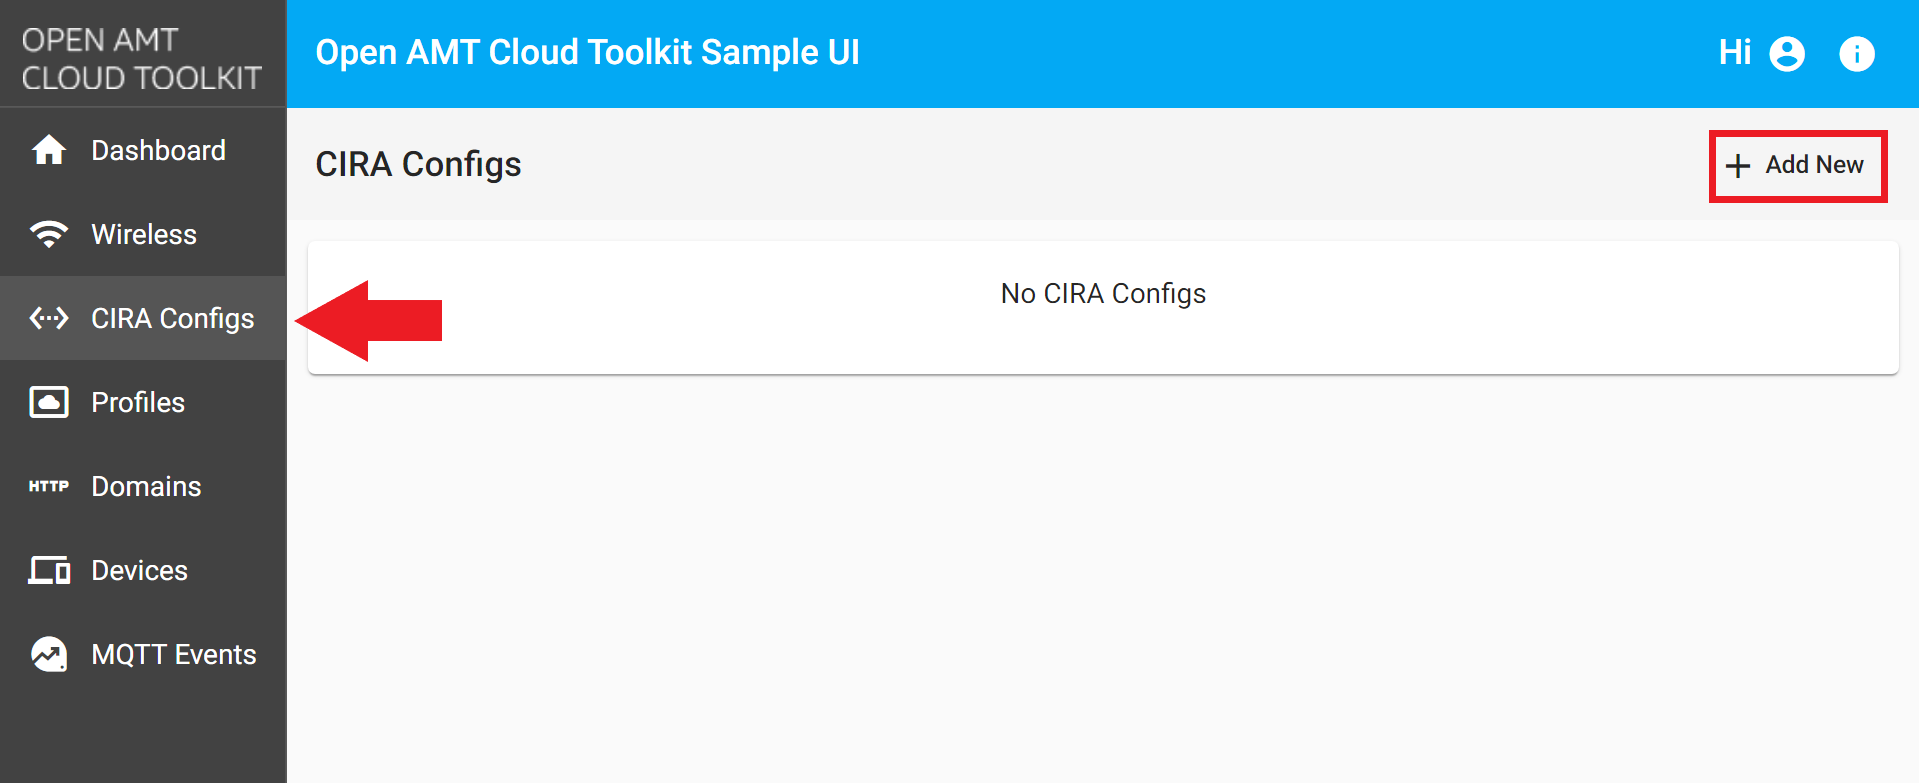
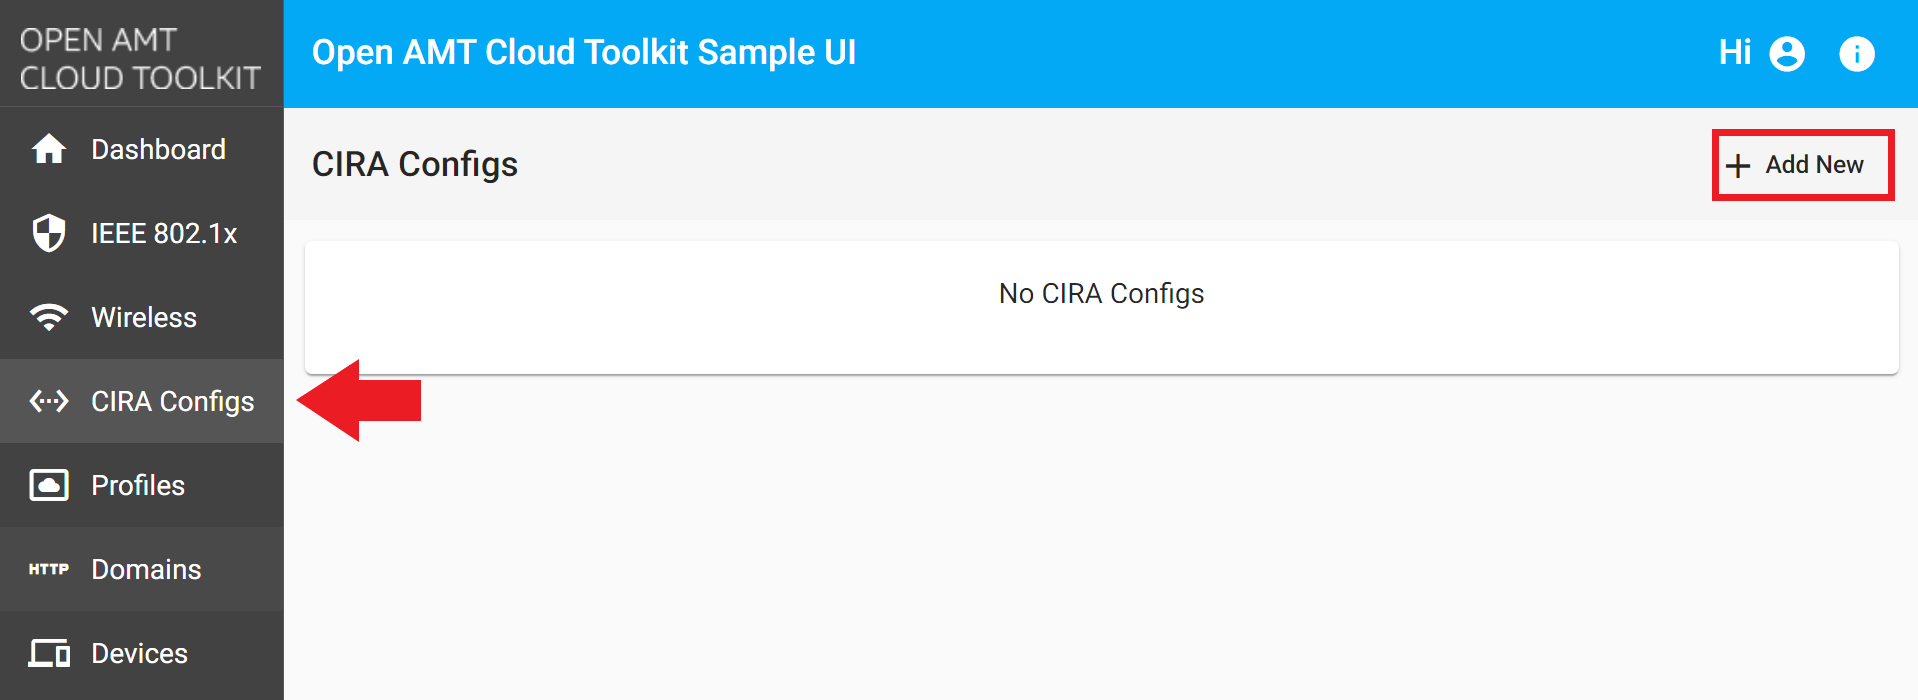
docs(reference): add 8021x wireless feature (#281)

diff --git a/docs/Reference/EA/ieee8021xconfig.md b/docs/Reference/EA/ieee8021xconfig.md
@@ -33,9 +33,11 @@ The following are requirements to configure and connect an AMT device within an 
      <figcaption>Figure 1: Create a new IEEE802.1x Config</figcaption>
      </figure>
 
-3. Specify a **Profile Name** of your choice.
+3. Select the Wired option.
 
-4. Select an **Authentication Protocol**.
+4. Specify a **Profile Name** of your choice.
+
+5. Select an **Authentication Protocol**.
 
     Four authentication protocols are supported for wired.
 
@@ -46,16 +48,16 @@ The following are requirements to configure and connect an AMT device within an 
     |EAP-FAST/GTC    | 5         | Indicates that the desired EAP type is the Flexible Authentication Extensible Authentication Protocol EAP type specified in [IETF RFC 4851](https://www.rfc-editor.org/rfc/rfc4851),     with Generic Token Card (GTC) as the inner authentication method.      |
     |EAP-FAST/TLS    | 10        | Indicates that the desired EAP type is the Flexible Authentication EAP type specified in [IETF RFC 4851](https://www.rfc-editor.org/rfc/rfc4851), with TLS as the inner authentication   method.      |
 
-5. Optionally, change the **PXE Timeout**.
+6. Optionally, change the **PXE Timeout**.
 
     PXE Timeout is the number of seconds in which the Intel(R) AMT will hold an authenticated 802.1X session. During the defined period, Intel(R) AMT manages the 802.1X negotiation while a PXE boot takes place. After the timeout, control of the negotiation passes to the host.
 
-6. Click **Save.**
+7. Click **Save.**
     
-    !!! example "Example IEEE802.1x Config"
+    !!! example "Example Wired IEEE802.1x Config"
         <figure class="figure-image">
-        <img src="..\..\..\assets\images\RPS_Create8021xConfig.png" alt="Figure 2: Example IEEE802.1x Config">
-        <figcaption>Figure 2: Example IEEE802.1x Config</figcaption>
+        <img src="..\..\..\assets\images\RPS_Create8021xConfig.png" alt="Figure 2: Example Wired IEEE802.1x Config">
+        <figcaption>Figure 2: Example Wired IEEE802.1x Config</figcaption>
         </figure>
 
 #### To link to an AMT Profile:
@@ -76,5 +78,53 @@ The following are requirements to configure and connect an AMT device within an 
         <figcaption>Figure 3: Example ACM profile with IEEE802.1x</figcaption>
         </figure>
 
+## Wireless 802.1x Configuration
 
-<!-- ## Wireless 802.1x Configuration -->
+There can be a **maximum of 8** wireless IEEE8021x Config created (per tenant). 8 profiles is the maximum AMT can accept. The following steps walk through how to create the required configs and profiles.
+
+1. Select the **IEEE 802.1x** tab from the left-hand menu.
+
+2. In the top-right corner, click **Add New.**
+     <figure class="figure-image">
+     <img src="..\..\..\assets\images\RPS_New8021xConfig.png" alt="Figure 1: Create a new IEEE802.1x Config">
+     <figcaption>Figure 4: Create a new IEEE802.1x Config</figcaption>
+     </figure>
+
+3. Select the Wireless option.
+
+4. Specify a **Profile Name** of your choice.
+
+5. Select an **Authentication Protocol**.
+
+    Two authentication protocols are supported for wireless.
+
+    |Auth Protocol          | API Value | Description                              |
+    | --------------------- | --------- | ---------------------------------------- |
+    |EAP-TLS                | 0         | Indicates that the desired EAP type is the Transport Layer Security EAP type specified in [RFC 2716](https://www.rfc-editor.org/rfc/rfc2716).                |
+    |PEAPv0/EAP-MSCHAPv2    | 2         | Indicates that the desired EAP type is the Protected Extensible Authentication Protocol (PEAP) Version 0 EAP type specified in [draft-kamath-pppext-peapv0](https://tools.ietf.org/html/draft-kamath-pppext-peapv0-00), with Microsoft PPP CHAP Extensions, Version 2 (MSCHAPv2) as the inner authentication method. <br><br>Only available via API directly, not Sample Web UI.     |
+
+6. Click **Save.**
+    
+    !!! example "Example Wireless IEEE802.1x Config"
+        <figure class="figure-image">
+        <img src="..\..\..\assets\images\RPS_Create8021xWireless.png" alt="Figure 2: Example Wireless IEEE802.1x Config">
+        <figcaption>Figure 5: Example Wireless IEEE802.1x Config</figcaption>
+        </figure>
+
+#### To link to a Wireless Config:
+
+1. Select the **Wireless** tab from the left-hand menu.
+
+2. Choose an existing profile or create a new one.
+
+3. Under **Authentication Method**, there should now be two new options. Select either **WPA IEEE 802.1x** or **WPA2 IEEE 802.1x**.
+
+4. Click **Save**. The new wireless config can now be included in an AMT profile.
+
+    After creating the profile and configs, AMT can now be configured for wireless 802.1x.
+
+    !!! example "Example Wireless Config with IEEE802.1x"
+        <figure class="figure-image">
+        <img src="..\..\..\assets\images\RPS_CreateWireless_8021xconfig.png" alt="Figure 3: Example Wireless Config with IEEE802.1x">
+        <figcaption>Figure 6: Example Wireless Config with IEEE802.1x</figcaption>
+        </figure>

diff --git a/docs/Tutorials/createWiFiConfig.md b/docs/Tutorials/createWiFiConfig.md
@@ -71,11 +71,11 @@ Use RPC's `amtinfo` feature to determine if your current device supports wireles
 
 4. Under **Authentication Method**, select **WPA PSK** or **WPA2 PSK**.
 
-5. Under **Encryption Method**, select **TKIP** or **CCMP**.
+5. Provide the **PSK Passphrase**. This is the password to the WiFi Network.
 
-6. Specify a **SSID**. This is the name of your wireless network.
+6. Under **Encryption Method**, select **TKIP** or **CCMP**.
 
-7. Provide a strong **PSK Passphrase**. This is the password to the WiFi Network.
+7. Specify the **SSID**. This is the name of your wireless network.
 
 8. Click **Save.**
 
